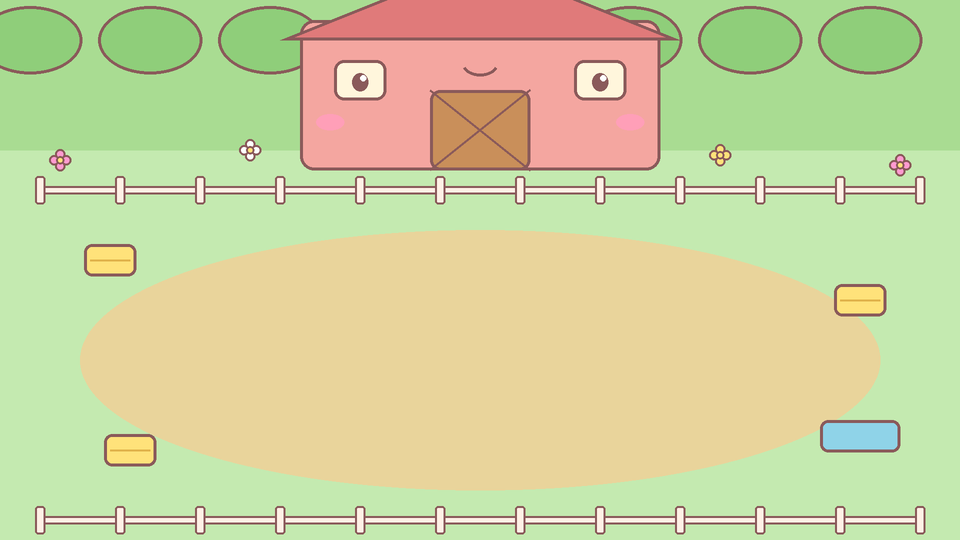
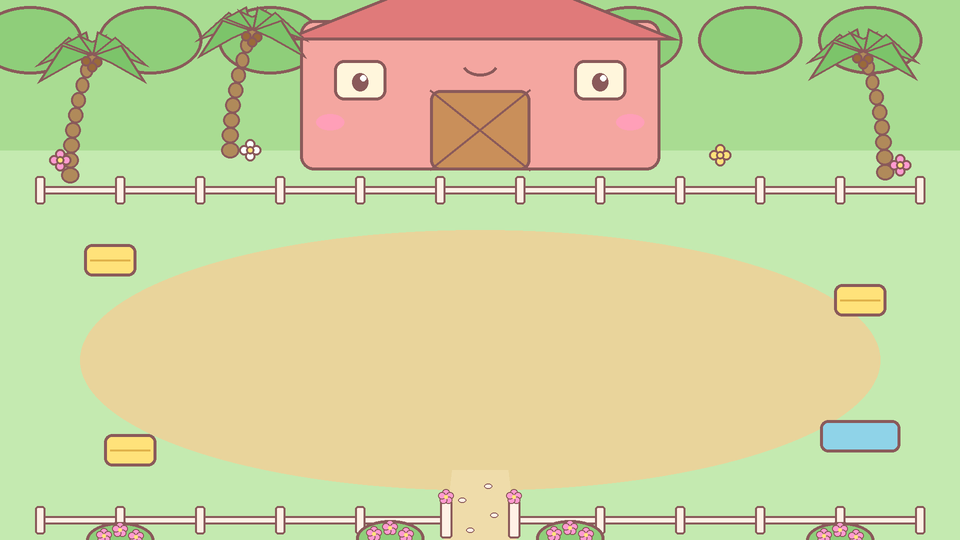
Pony stable review fixes: the Daughter moves to the stable after inviting you, ridden ponies can't be clicked, Foal buttons scroll, gate path and palms in the stable art, Hannah brushes a pony, fuller stable test on a temp save

diff --git a/tools/gen_pony_sprites.py b/tools/gen_pony_sprites.py
@@ -2,7 +2,8 @@
 
 Usage: python3 -I tools/gen_pony_sprites.py
 Reads project/data/ponies.json (coat and mane colours, mane styles, accessories) and writes
-project/assets/placeholder/pony_*.png and bg_florida_stable.png.
+project/assets/placeholder/pony_*.png, bg_florida_stable.png and npc_stable_friend.png (the
+Daughter's friend who brushes the ponies).
 
 Every pony part shares one 64x52 frame (pony faces right, three-quarter side view) so the parts
 stack: body (coat colour; legs, head, face), spots, mane (mane + tail, per style and colour),
@@ -144,6 +145,61 @@ def shine():
     done(im, "pony_sparkle")
 
 
+def hibiscus(e, x, y, r):
+    """Five round coral-pink petals and a yellow middle (STYLE.md 4.4 hibiscus #ff9ad0)."""
+    for a in range(5):
+        e(x + r * 0.7 * math.cos(a * 1.2566 - 1.57), y + r * 0.7 * math.sin(a * 1.2566 - 1.57), r * 0.6, r * 0.6, "#ff9ad0", 1)
+    e(x, y, r * 0.3, r * 0.3, "#ffe27a", 0)
+
+
+def palm(d, x, y, lean, S):
+    """A friendly palm: a bumpy coconut-brown trunk, a crown of leaves and three coconuts."""
+    top = (x + 22 * lean, y - 120)
+    for i in range(9):
+        t = i / 8
+        cx = x + 22 * lean * t * t
+        cy = y - 120 * t
+        rr = 9 - 3 * t
+        d.ellipse([(cx - rr) * S, (cy - 8) * S, (cx + rr) * S, (cy + 8) * S], fill="#b08a5a", outline=INK, width=2 * S)
+    for ang in (-170, -130, -90, -50, -10, 160, 20):
+        a = math.radians(ang)
+        tip = (top[0] + 58 * math.cos(a), top[1] + 32 * math.sin(a) + 18)
+        mid = (top[0] + 26 * math.cos(a), top[1] + 15 * math.sin(a) - 6)
+        side = (-math.sin(a) * 15, math.cos(a) * 10)
+        pts = [top, (mid[0] + side[0], mid[1] + side[1]), tip, (mid[0] - side[0], mid[1] - side[1])]
+        d.polygon([(px * S, py * S) for px, py in pts], fill="#7cc46a", outline=INK, width=2 * S)
+    for dx, dy in ((-6, 6), (5, 7), (0, 12)):
+        d.ellipse([(top[0] + dx - 5) * S, (top[1] + dy - 5) * S, (top[0] + dx + 5) * S, (top[1] + dy + 5) * S],
+                  fill="#9a6a3a", outline=INK, width=2 * S)
+
+
+def stable_friend():
+    """The Daughter's friend (cast stable_friend): sun hat, golden pigtails, turquoise
+    sundress, a pink pony brush in her hand. Same 24x32 frame as the other NPC placeholders."""
+    w, h = 24, 32
+    im, d = canvas(w, h)
+    d.rounded_rectangle([7 * K, 15 * K, 17 * K, 29 * K], 3 * K, fill="#70d0c0", outline=INK, width=K)  # dress
+    d.line([7 * K, 24 * K, 17 * K, 24 * K], fill="#ffffff", width=K)
+    for x in (9.5, 14.5):  # legs
+        d.rounded_rectangle([(x - 1.2) * K, 28 * K, (x + 1.2) * K, 31.5 * K], K, fill="#ffe0c8", outline=INK, width=K // 2)
+    for x in (4.5, 19.5):  # pigtails
+        ell(d, x, 13, 2.6, 3.4, "#f4cf6a")
+    ell(d, 12, 10, 6.5, 6.5, "#ffe0c8")  # head
+    d.chord([5.5 * K, 3.5 * K, 18.5 * K, 16 * K], 180, 360, fill="#f4cf6a", outline=INK, width=K)  # fringe
+    ell(d, 12, 5, 10.5, 2.2, "#fff1b8")  # sun hat brim
+    d.chord([7 * K, 0, 17 * K, 9 * K], 180, 360, fill="#fff1b8", outline=INK, width=K)
+    d.line([7.5 * K, 4 * K, 16.5 * K, 4 * K], fill="#ff9ad0", width=K)  # hat ribbon
+    ell(d, 9.6, 11, 0.9, 1.0, INK, 0)  # dot eyes
+    ell(d, 14.4, 11, 0.9, 1.0, INK, 0)
+    ell(d, 8.2, 13.2, 1.3, 0.8, BLUSH, 0)
+    ell(d, 15.8, 13.2, 1.3, 0.8, BLUSH, 0)
+    d.arc([10.5 * K, 12 * K, 13.5 * K, 14.5 * K], 20, 160, fill=INK, width=K // 2)
+    d.rounded_rectangle([17 * K, 18 * K, 23 * K, 21 * K], K, fill="#ff9ad0", outline=INK, width=K // 2)  # brush
+    d.line([18 * K, 21 * K, 22 * K, 21 * K], fill="#fff1e6", width=K)
+    ell(d, 17.5, 20, 1.4, 1.4, "#ffe0c8")  # hand
+    done(im, "npc_stable_friend", w, h)
+
+
 def stable_bg():
     w, h = 960, 540
     im = Image.new("RGBA", (w * 2, h * 2), "#c4eab0")
@@ -173,14 +229,31 @@ def stable_bg():
     for x in (330, 630):
         e(x, 122, 14, 8, BLUSH, 0)
     d.arc([462 * S, 52 * S, 498 * S, 76 * S], 20, 160, fill=INK, width=3 * S)  # smile above the door
-    # paddock fence
-    for y in (190, 520):
-        r((40, y - 4, 920, y + 4), "#fff1e6", 3, 2)
+    # palms behind the paddock: it's the Keys, even out back
+    for px, py, lean in [(70, 175, 1), (885, 172, -1), (230, 150, 1)]:
+        palm(d, px, py, lean, S)
+    # soft dirt patch for the stalls, and the sandy path out through the gate
+    e(480, 360, 400, 130, "#e9d49b", 0)
+    d.polygon([(452 * S, 470 * S), (508 * S, 470 * S), (516 * S, 540 * S), (444 * S, 540 * S)], fill="#efdcaa")
+    for x, y in [(462, 500), (494, 515), (470, 530), (488, 486)]:  # stepping shells on the path
+        e(x, y, 4, 2.5, "#fff1e6", 1)
+    # paddock fence; the front fence has an open gate (the path back to the beach, BeachDoor)
+    r((40, 186, 920, 194), "#fff1e6", 3, 2)
+    r((40, 516, 446, 524), "#fff1e6", 3, 2)
+    r((514, 516, 920, 524), "#fff1e6", 3, 2)
     for x in range(40, 921, 80):
         r((x - 5, 176, x + 5, 204), "#fff1e6", 3, 2)
-        r((x - 5, 506, x + 5, 534), "#fff1e6", 3, 2)
-    # soft dirt patch for the stalls, hay, a trough, flowers
-    e(480, 360, 400, 130, "#e9d49b", 0)
+        if x not in (440, 520):
+            r((x - 5, 506, x + 5, 534), "#fff1e6", 3, 2)
+    for x in (446, 514):  # gate posts with little hibiscus on top
+        r((x - 6, 500, x + 6, 538), "#fff1e6", 3, 2)
+        hibiscus(e, x, 497, 6)
+    # hibiscus bushes by the gate and along the fence
+    for x, y in [(390, 538), (570, 538), (120, 540), (840, 540)]:
+        e(x, y, 34, 18, "#8fce7a")
+        for dx, dy in ((-16, -4), (0, -10), (16, -3)):
+            hibiscus(e, x + dx, y + dy, 6)
+    # hay, a trough, flowers
     for x, y in [(110, 260), (860, 300), (130, 450)]:
         r((x - 26, y - 16, x + 26, y + 16), "#ffe27a", 8)
         d.line([(x - 20) * S, y * S, (x + 20) * S, y * S], fill="#e0b24a", width=2 * S)
@@ -202,6 +275,7 @@ def main():
     accessories()
     shine()
     stable_bg()
+    stable_friend()
     print("Pony art written to", OUT)
 
 

diff --git a/prompts/STYLE.md b/prompts/STYLE.md
@@ -596,6 +596,8 @@ crafting (gardening is only gendered on the island; in Florida it is just fun). 
   stone-skipping ("Low and sideways, from the wrist"). Key lime lemonade up at the house.
 - **Daughter** — collects stones (two hundred in a bucket, allowed to keep fifty; grey ones with a
   white stripe are lucky); grabs her hat and her brush to show you the horses out back.
+- **Hannah** — the Daughter's friend from down the road, at the stable "basically every day",
+  brushing a pony's mane ("Little strokes, like you're brushing a cloud").
 - **Dolphins** Sunny and Pearl; **crabs** Sidestep, Clementine and Pebble; **gulls** Biscuit, Mabel
   and Pickle; **mermaids** Marina and Lagoon. A pelican "who thinks he owns the dock" is mentioned.
 - Every critter reacts with delight to whatever the player wears ("A flower crown! You look like a
@@ -750,6 +752,7 @@ with blank signs; the Barren hold brooms beside a red X.
 | crab_sidestep, crab_clementine, crab_pebble | Sidestep, Clementine, Pebble | Florida crabs |
 | gull_biscuit, gull_mabel, gull_pickle | Biscuit, Mabel, Pickle | Florida gulls |
 | mermaid_marina, mermaid_lagoon | Marina, Lagoon | aquarium mermaids |
+| stable_friend | Hannah | the Daughter's friend from down the road, brushing a pony's mane at the stable |
 | epstein, bill_clinton, hillary_clinton, bill_gates | Jeffrey Epstein, Bill Clinton, Hillary Clinton, Bill Gates | clone originals (bunker) |
 | polar_bear_clone | Polar bear clone (Cub) | the cub batch |
 
